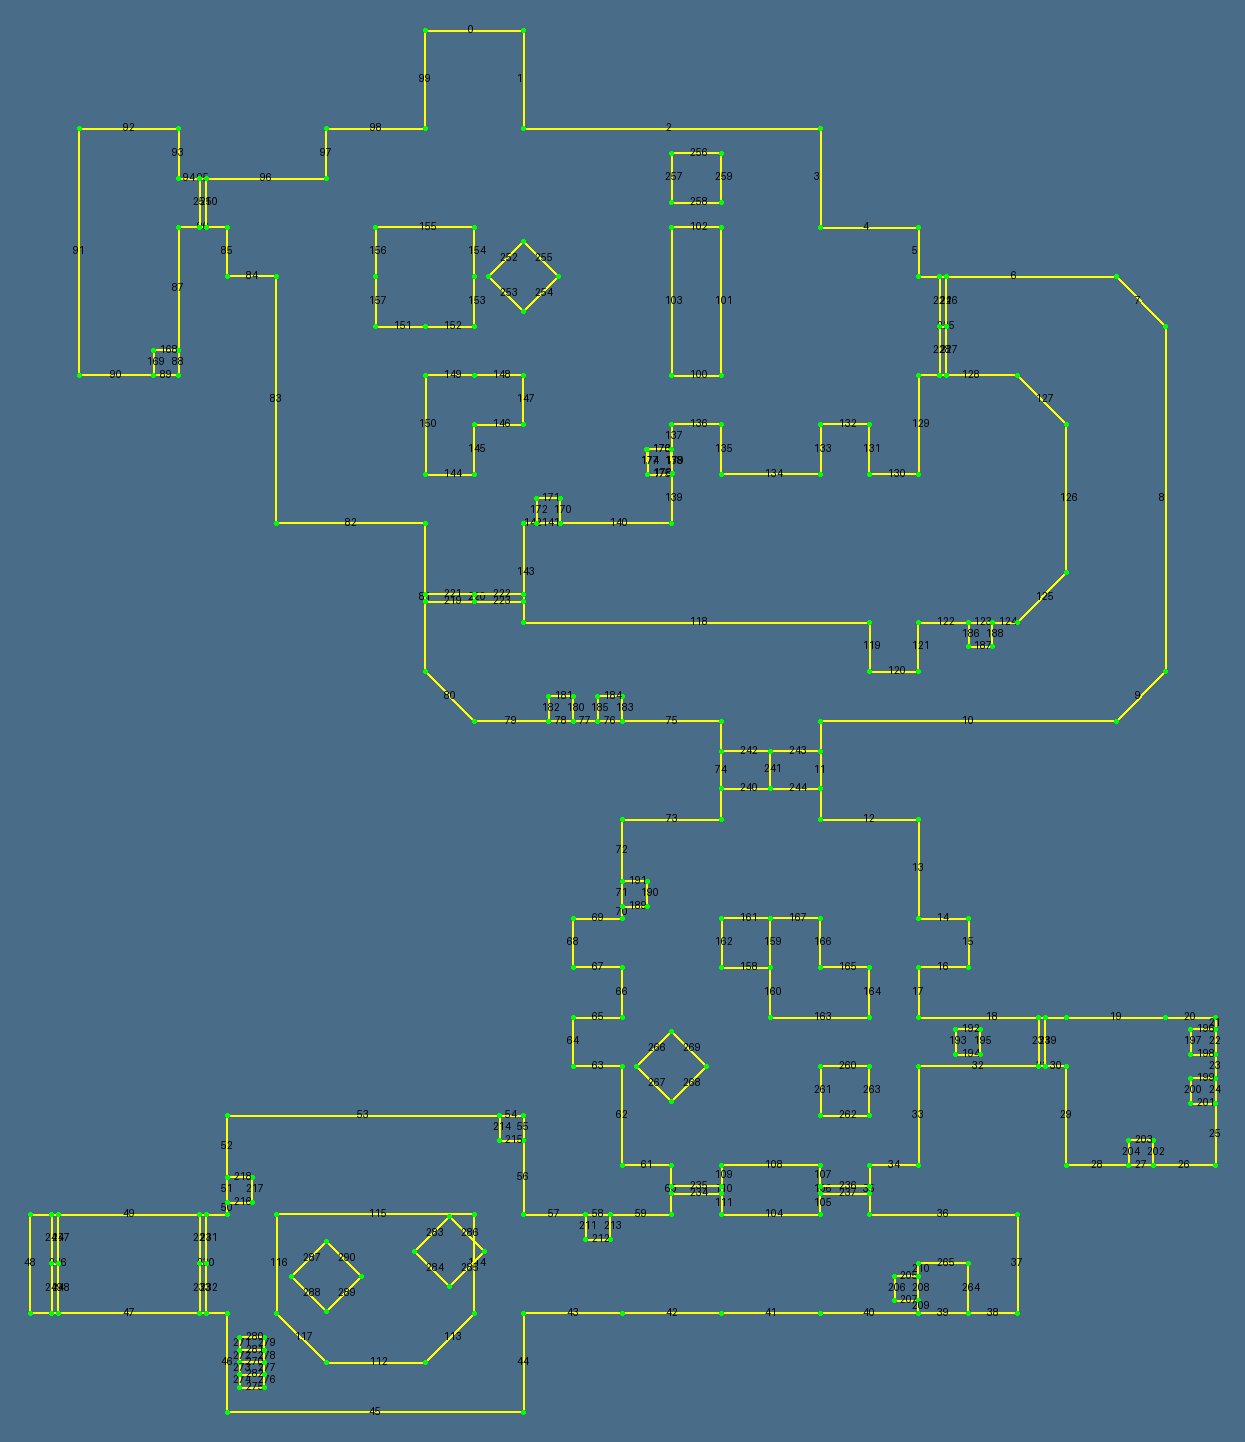
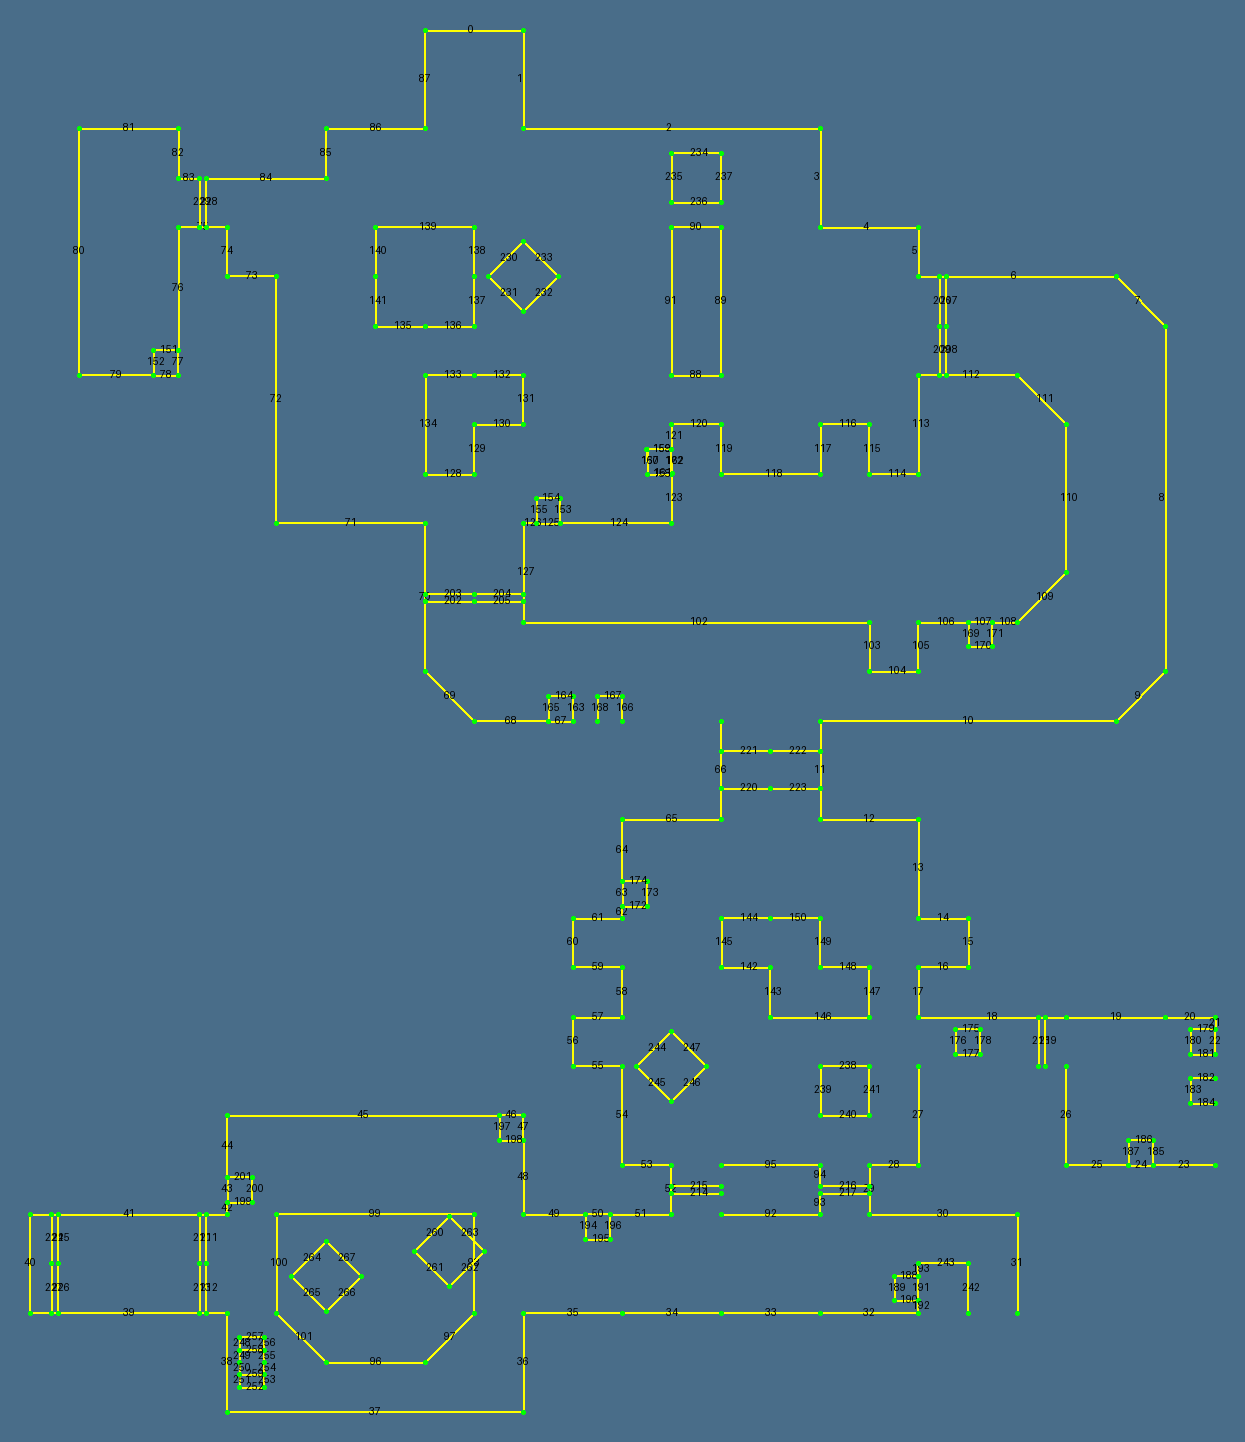
broken _tuplesToLines

diff --git a/src/ClassesInterim.py b/src/ClassesInterim.py
@@ -1,7 +1,7 @@
 from dataclasses import dataclass
 from typing import Any
 from ClassesB3D import MapB3D, CrateB3D, DoorB3D
-from algebraFunctions import resolveSegmentsOverlap
+from algebraFunctions import resolveSegmentsOverlap, isInside, isAthwart
 from ClassesShared import Vertex, HeightType
 
 
@@ -9,16 +9,15 @@ from ClassesShared import Vertex, HeightType
 class LineInterim:
     v1 : Vertex
     v2 : Vertex
-    height : HeightType = None
-    side1 : Any = None
-    side2 : Any = None
+    height : HeightType
+    texture : Any = None
 
 
 class MapInterim:
     def __init__(self, mapB3D: MapB3D):
         self.lines: list[LineInterim] = []
         for line in mapB3D.lines:
-            self.lines.append(LineInterim(v1=line.v1, v2=line.v2))
+            self.lines.append(LineInterim(v1=line.v1, v2=line.v2, height=line.height, texture=line.texture))
         # self._removeCratesAndDoors(mapB3D.crates, mapB3D.doors)
         self._removeOverlaps()
 
@@ -36,16 +35,61 @@ class MapInterim:
             linesToRemove.append(door.startLineIdx+2)
 
         newLines: list[LineInterim] = []
-        for i, line in enumerate(self.lines):
-            if i not in linesToRemove:
+        for index, line in enumerate(self.lines):
+            if index not in linesToRemove:
                 newLines.append(line)
         self.lines = newLines
 
     @staticmethod
-    def _tuplesToLine(tuples: list[tuple[int]]) -> list[LineInterim]:
+    def lineToTuple(line: LineInterim) -> tuple[int]:
+        return (line.v1.x, line.v1.y, line.v2.x, line.v2.y)
+
+    @staticmethod
+    def _tuplesToLines(tuples, oldLine1: LineInterim, oldLine2: LineInterim) -> list[LineInterim]:
         lines: list[LineInterim] = []
         for tup in tuples:
-            lines.append(LineInterim(v1=Vertex(tup[0], tup[1]), v2=Vertex(tup[2], tup[3])))
+            height : HeightType = None
+            if isInside(*tup, *MapInterim.lineToTuple(oldLine1)) and isInside(*tup, *MapInterim.lineToTuple(oldLine2)):
+                if oldLine1.height == oldLine2.height:
+                    if isAthwart(*MapInterim.lineToTuple(oldLine1), *MapInterim.lineToTuple(oldLine2)):
+                        height = None
+                    else:
+                        height = oldLine1.height
+                else:
+                    heights = set([oldLine1.height, oldLine2.height])
+                    if heights == set([HeightType.TOP, HeightType.BOTTOM]):
+                        if isAthwart(*MapInterim.lineToTuple(oldLine1), *MapInterim.lineToTuple(oldLine2)):
+                            # raise Exception("Athwart TOP and BOTTOM")
+                            pass
+                        else:
+                            height = HeightType.FULL
+                    elif heights == set([HeightType.TOP, HeightType.FULL]):
+                        if isAthwart(*MapInterim.lineToTuple(oldLine1), *MapInterim.lineToTuple(oldLine2)):
+                            height = HeightType.BOTTOM
+                        else:
+                            print('Warning: top and full lines are not athwart')
+                            height = HeightType.FULL
+                    elif heights == set([HeightType.BOTTOM, HeightType.FULL]):
+                        if isAthwart(*MapInterim.lineToTuple(oldLine1), *MapInterim.lineToTuple(oldLine2)):
+                            height = HeightType.TOP
+                        else:
+                            print('Warning: bottom and full lines are not athwart')
+                            height = HeightType.FULL
+                    else:
+                        raise Exception("Can't be here")
+            else:
+                if isInside(*tup, *MapInterim.lineToTuple(oldLine1)):
+                    height = oldLine1.height
+                elif isInside(*tup, *MapInterim.lineToTuple(oldLine2)):
+                    height = oldLine2.height
+                else:
+                    raise Exception("Tuple is not inside either oldLine1 or oldLine2")
+            if height:
+                lines.append(LineInterim(
+                    v1=Vertex(tup[0], tup[1]),
+                    v2=Vertex(tup[2], tup[3]),
+                    height=height
+                ))
         return lines
 
     def _removeOverlaps(self):
@@ -54,14 +98,16 @@ class MapInterim:
             j = i + 1
             isBroken = False
             while j < len(self.lines):
-                resolved = resolveSegmentsOverlap(self.lines[i].v1.x, self.lines[i].v1.y, self.lines[i].v2.x, self.lines[i].v2.y,
-                                                  self.lines[j].v1.x, self.lines[j].v1.y, self.lines[j].v2.x, self.lines[j].v2.y)
+                resolved = resolveSegmentsOverlap(*self.lineToTuple(self.lines[i]), *self.lineToTuple(self.lines[j]))
                 if not resolved:
                     j += 1
                     continue
                 else:
+                    print(i, j, resolved)
+                    oldLine1 = self.lines[i]
+                    oldLine2 = self.lines[j]
                     del self.lines[j]
-                    self.lines = self.lines[:i] + self._tuplesToLine(resolved) + self.lines[i+1:]
+                    self.lines = self.lines[:i] + self._tuplesToLines(resolved, oldLine1, oldLine2) + self.lines[i+1:]
                     isBroken = True
                     break
             if isBroken:

diff --git a/src/algebraFunctions.py b/src/algebraFunctions.py
@@ -53,6 +53,17 @@ def reverseSegments(segments):
         )
     return reversedSegments
 
+def _revertCD(segments, xC, yC, xD, yD):
+    for i in range(len(segments)):
+        if (set([xC, xD]) == set([segments[i][0], segments[i][2]]) and
+            set([yC, yD]) == set([segments[i][1], segments[i][3]])
+        ):
+            segments[i]  = (
+                segments[i][2], segments[i][3],
+                segments[i][0], segments[i][1]
+            )
+            return
+
 def resolveSegmentsOverlap(xA, yA, xB, yB, xC, yC, xD, yD):
     # Ensure the segments are in the same order (xA, yA) to (xB, yB) and (xC, yC) to (xD, yD)
     changedAB = False
@@ -70,8 +81,28 @@ def resolveSegmentsOverlap(xA, yA, xB, yB, xC, yC, xD, yD):
         result = [tuple(int(x) for x in seg) for seg in result]
         if changedAB:
             result = reverseSegments(result)
-        # if changedCD:
+            if not changedCD:
+                _revertCD(result, xC, yC, xD, yD)
+        elif changedCD:
+            _revertCD(result, xC, yC, xD, yD)
     return result
+
+
+def isInside(xA, yA, xB, yB, xC, yC, xD, yD):
+    """
+    Returns True if the segment (xA, yA) - (xB, yB) is fully inside the segment (xC, yC) - (xD, yD).
+    The segments are assumed to be collinear.
+    """
+    return (min(xC, xD) <= xA and xB <= max(xC, xD) and
+            min(yC, yD) <= yA and yB <= max(yC, yD))
+
+def isAthwart(xA, yA, xB, yB, xC, yC, xD, yD):
+    """
+    Returns True if the two already collinear segments (xA, yA) - (xB, yB) and (xC, yC) - (xD, yD)
+    are "moving" in different directions.
+    """
+    return ((xA < xB and xC > xD) or (xA > xB and xC < xD) or
+            (yA < yB and yC > yD) or (yA > yB and yC < yD))
 
 
 def test():
